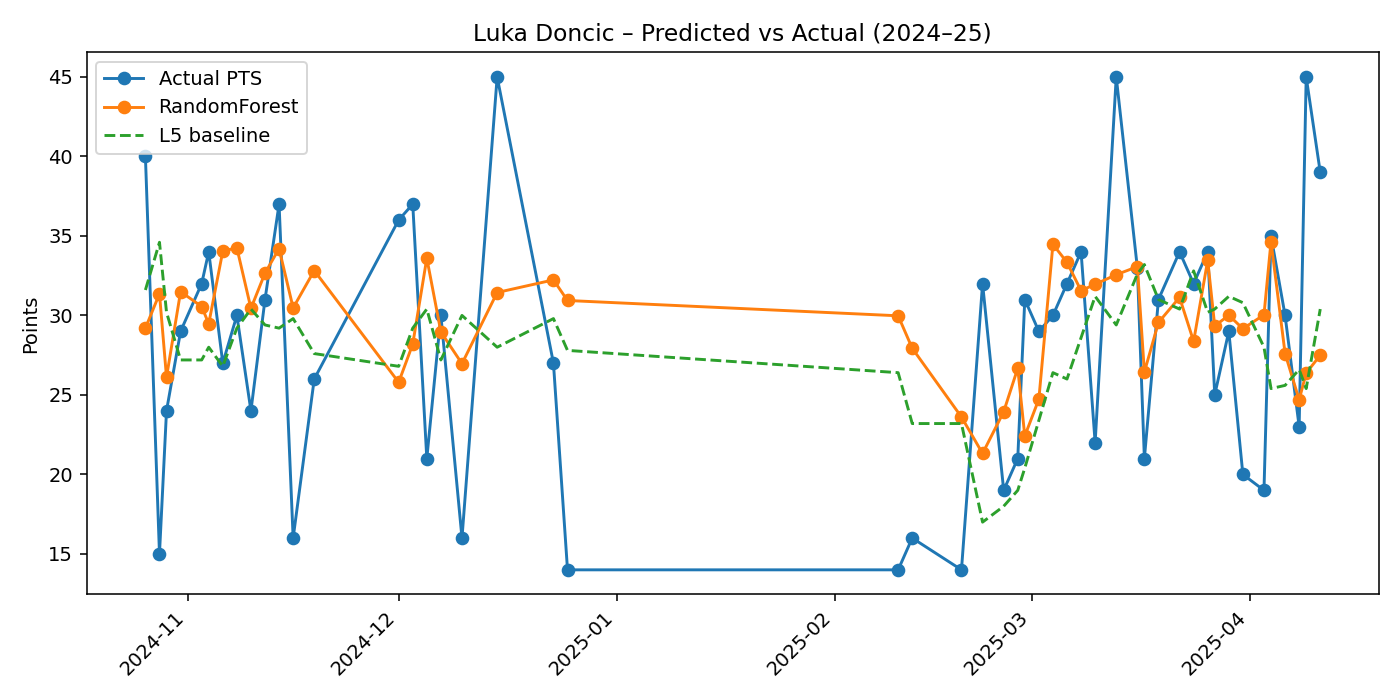
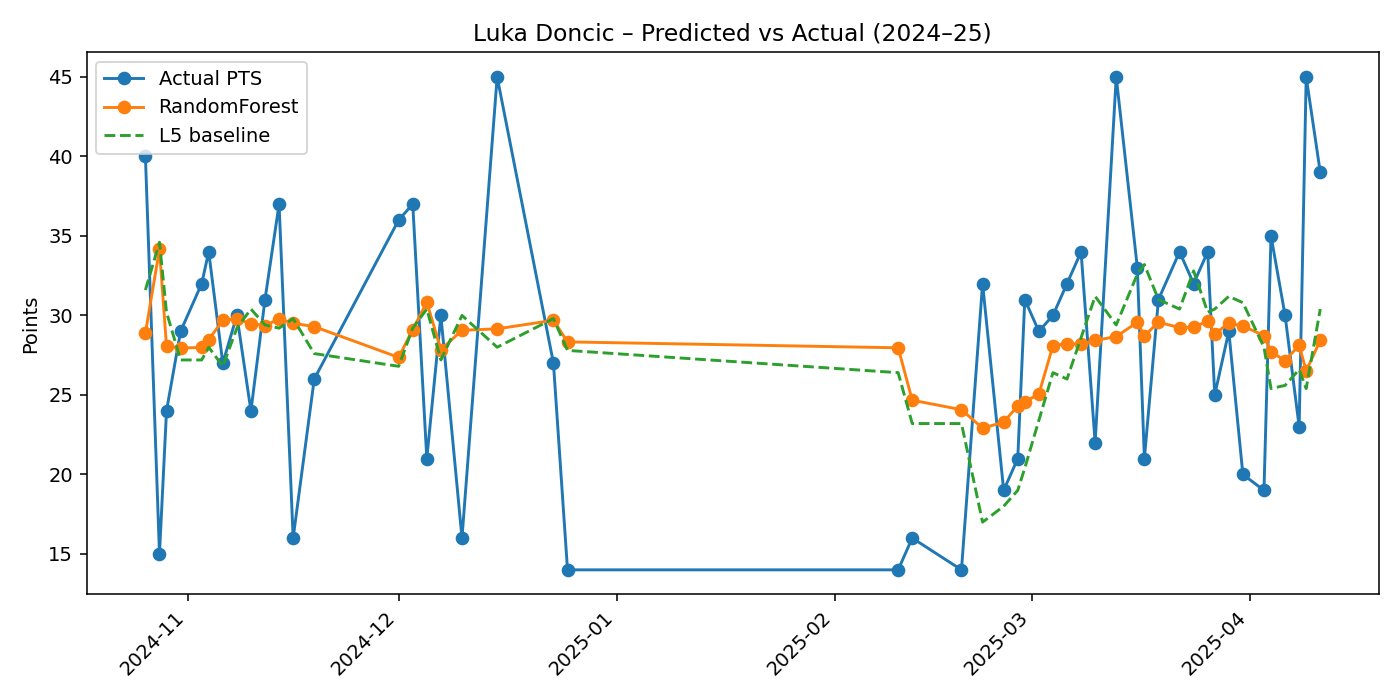
Ran final RandomForest v1.0 model.

Changed region(s): [[0.3993, 0.33, 0.9521, 0.66], [0.0921, 0.33, 0.3993, 0.57], [0.7371, 0.33, 0.8293, 0.42]]

diff --git a/Data/src/Models/doncic_randomforest.py b/Data/src/Models/doncic_randomforest.py
@@ -44,11 +44,11 @@ DB_NAME   = "sportsinsight"
 PRED_COLL = "predictions_2024_25"
 
 PARAM_GRID = {
-    "n_estimators":    [100, 200, 400],
-    "max_depth":       [None, 10, 16],
+    "n_estimators":    [200],
+    "max_depth":       [None, 14],
     "min_samples_leaf":[1, 2, 4],
     "min_samples_split":[2, 5],
-    "max_features":    [1.0, "sqrt"],  # regression default=1.0; try sqrt too
+    "max_features":    ["sqrt", 1.0],  # regression default=1.0; try sqrt too
 }
 
 FEATURE_COLS = [
@@ -320,56 +320,68 @@ if __name__ == "__main__":
     print(f"Calibration used: y ≈ {a_cal:.3f} + {b_cal:.3f}·ŷ, corr={np.nan if not np.isfinite(corr) else corr:.3f}")
 
     # ---------- Choose stacked weights across folds ----------
-    def choose_stack_weights(train_df, feat_cols, cv_splits, base_cols):
-    # grid over simplex w0+w1+...=1, step 0.05
-        grid = np.arange(0.0, 1.01, 0.05)
-        best_w, best_mae = None, 9e9
+    def choose_stack_weights(train_df, feat_cols, cv_splits, base_cols, best_model, step=0.10):
+        """
+        Find weights (w_model, w_med5, w_std) on the simplex using a coarse grid.
+        We fit the model ONCE per fold, cache predictions, then sweep weights.
+        """
+        # ---- precompute fold predictions once ----
+        folds = []  # list of (y_val, y_hat_cal, med5, std)
+        for tr_idx, va_idx in cv_splits:
+            X_tr = train_df.iloc[tr_idx][feat_cols].values
+            y_tr = train_df.iloc[tr_idx]["PTS"].values
+            X_va = train_df.iloc[va_idx][feat_cols].values
+            y_va = train_df.iloc[va_idx]["PTS"].values
 
-        for w0 in grid:               # model weight
-            for w1 in grid:           # MED5 weight
-                w2 = 1.0 - w0 - w1    # STD weight
-                if w2 < -1e-9: 
+            m = clone(best_model)
+            m.fit(X_tr, y_tr)
+            y_hat = m.predict(X_va)
+
+            # fold-local calibration (same rules as elsewhere)
+            a_, b_ = 0.0, 1.0
+            if np.std(y_hat) > 1e-8 and np.std(y_va) > 1e-8:
+                c = float(np.corrcoef(y_hat, y_va)[0, 1])
+            else:
+                c = np.nan
+            if np.isfinite(c) and c > 0.20:
+                A = np.column_stack([np.ones_like(y_hat), y_hat])
+                try:
+                    a__, b__ = np.linalg.lstsq(A, y_va, rcond=None)[0]
+                except np.linalg.LinAlgError:
+                    a__, b__ = np.nan, np.nan
+                if np.isfinite(b__) and 0.25 <= b__ <= 1.75:
+                    a_, b_ = float(a__), float(b__)
+            y_hat_cal = a_ + b_ * y_hat
+
+            med5 = train_df.iloc[va_idx][base_cols["MED5"]].values
+            std  = train_df.iloc[va_idx][base_cols["STD"]].values
+            folds.append((y_va, y_hat_cal, med5, std))
+
+        # ---- sweep weights on the simplex ----
+        grid = np.arange(0.0, 1.0 + 1e-9, step)
+        best = (1.0, 0.0, 0.0)  # default to pure model
+        best_mae = 9e9
+
+        for w_model in grid:
+            for w_med5 in grid:
+                w_std = 1.0 - w_model - w_med5
+                if w_std < 0:  # outside simplex
                     continue
-                fold_mae = []
-                for tr_idx, va_idx in cv_splits:
-                    X_tr = train_df.iloc[tr_idx][feat_cols].values
-                    y_tr = train_df.iloc[tr_idx]["PTS"].values
-                    X_va = train_df.iloc[va_idx][feat_cols].values
-                    y_va = train_df.iloc[va_idx]["PTS"].values
-
-                    m = clone(best_model)
-                    m.fit(X_tr, y_tr)
-                    y_hat = m.predict(X_va)
-
-                    # quick fold-local calibration (same rules)
-                    a_, b_ = 0.0, 1.0
-                    if np.std(y_hat) > 1e-8 and np.std(y_va) > 1e-8:
-                        c = float(np.corrcoef(y_hat, y_va)[0, 1])
-                    else:
-                        c = np.nan
-                    if np.isfinite(c) and c > 0.20:
-                        A = np.column_stack([np.ones_like(y_hat), y_hat])
-                        try:
-                            a__, b__ = np.linalg.lstsq(A, y_va, rcond=None)[0]
-                        except np.linalg.LinAlgError:
-                            a__, b__ = np.nan, np.nan
-                        if np.isfinite(b__) and 0.25 <= b__ <= 1.75:
-                            a_, b_ = float(a__), float(b__)
-                    y_hat_cal = a_ + b_ * y_hat
-
-                    med5 = train_df.iloc[va_idx][base_cols["MED5"]].values
-                    std  = train_df.iloc[va_idx][base_cols["STD"]].values
-
-                    y_blend = w0*y_hat_cal + w1*med5 + w2*std
-                    fold_mae.append(mean_absolute_error(y_va, y_blend))
-
-                m_mae = np.mean(fold_mae)
-                if m_mae < best_mae:
-                    best_mae, best_w = m_mae, (w0, w1, w2)
-        return best_w
+                # compute MAE across all folds without refitting
+                sae = 0.0
+                n   = 0
+                for y_va, y_hat_cal, med5, std in folds:
+                    y_blend = w_model*y_hat_cal + w_med5*med5 + w_std*std
+                    sae += np.abs(y_va - y_blend).sum()
+                    n   += y_va.shape[0]
+                mae = sae / max(n, 1)
+                if mae < best_mae:
+                    best_mae = mae
+                    best     = (w_model, w_med5, w_std)
+        return best
 
     base_cols = {"MED5": "PTS_MED5", "STD": "PTS_SEASON_TD"}
-    w_model, w_med5, w_std = choose_stack_weights(train, FEATURE_COLS, cv_splits, base_cols)
+    w_model, w_med5, w_std = choose_stack_weights(train, FEATURE_COLS, cv_splits, base_cols, best_model, step=0.10)
     print(f"Stacked weights (validation across folds): model={w_model:.2f}, MED5={w_med5:.2f}, STD={w_std:.2f}")
 
     y_pred_raw = best_model.predict(X_test)
